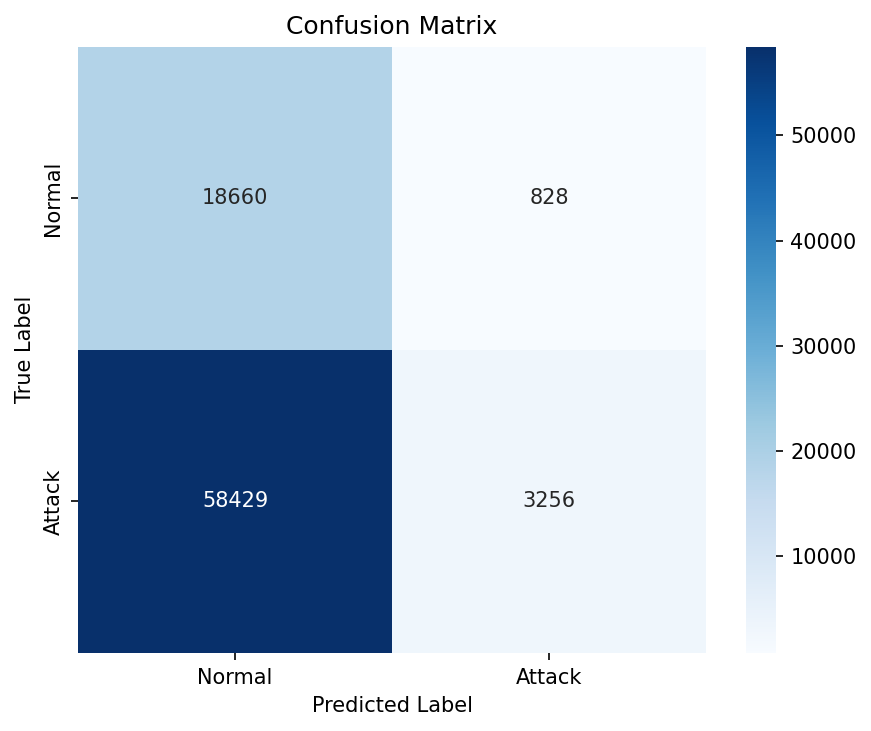
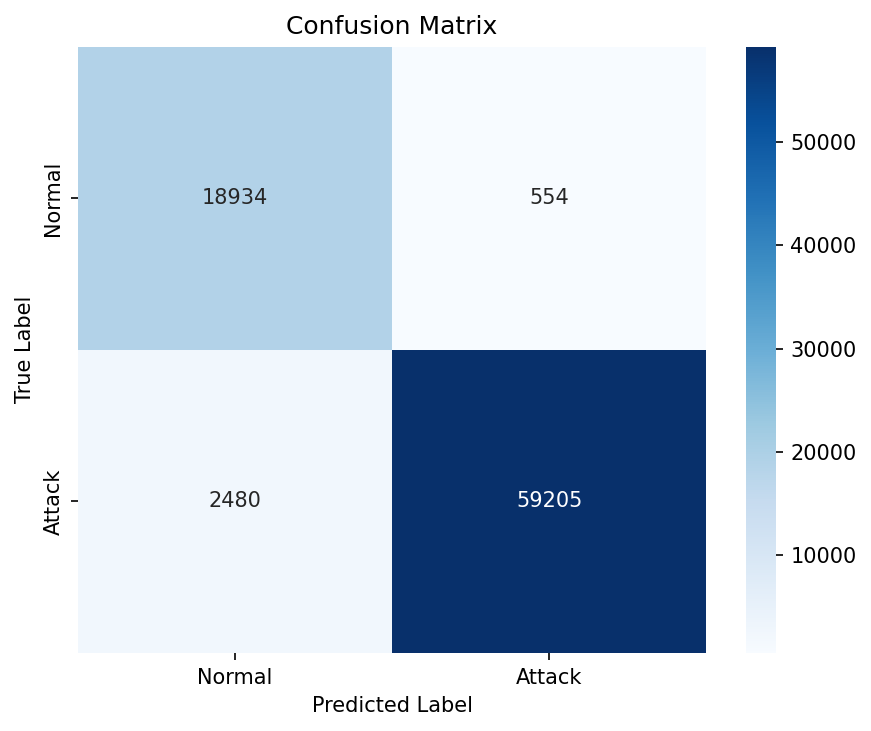
fix evaluate

diff --git a/main.py b/main.py
@@ -10,7 +10,8 @@ from src.evaluate import (
     plot_loss_curve,
     plot_confusion_matrix,
     plot_feature_importance,
-    print_metrics_table
+    print_metrics_table,
+    save_report_txt,
 )
 
 
@@ -24,21 +25,35 @@ def main():
     train_df, test_df = load_and_clean_data(TRAIN_PATH, TEST_PATH)
     X_train, X_test, y_train, y_test = encode_features(train_df, test_df)
     feature_names = list(X_train.columns)
-    X_train_scaled, X_test_scaled, scaler = scale_features(X_train, X_test)
-    X_train_balanced, y_train_balanced = apply_smote(X_train_scaled, y_train)
-    X_train_selected, selected_features, etc = select_features(
+    # Split original training set into train and val
+    X_train_raw, X_val_raw, y_train_raw, y_val_raw = train_test_split(
+        X_train, y_train,
+        test_size=0.2,
+        random_state=42,
+        stratify=y_train
+    )
+
+    # Scale features
+    X_train_scaled, X_val_scaled, scaler = scale_features(X_train_raw, X_val_raw)
+    X_test_scaled = scaler.transform(X_test)
+
+    # Apply SMOTE only to training split
+    X_train_balanced, y_train_balanced = apply_smote(X_train_scaled, y_train_raw)
+
+    # Feature selection (using balanced training data)
+    _, selected_features, etc = select_features(
         X_train_balanced, y_train_balanced, feature_names
     )
+
+    # Filter features for all sets
     test_indices = [feature_names.index(name) for name in selected_features]
-    X_test_selected = X_test_scaled[:, test_indices]
-    X_train_split, X_val_split, y_train_split, y_val_split = train_test_split(
-        X_train_selected, y_train_balanced,
-        test_size=0.33,
-        random_state=42
-    )
-    model = build_model(X_train_split.shape[1])
-    history = compile_and_train(model, X_train_split, y_train_split, X_val_split, y_val_split)
-    results, y_pred = evaluate(model, X_test_selected, y_test)
+    X_train_final = X_train_balanced[:, test_indices]
+    X_val_final = X_val_scaled[:, test_indices]
+    X_test_final = X_test_scaled[:, test_indices]
+
+    model = build_model(X_train_final.shape[1])
+    history = compile_and_train(model, X_train_final, y_train_balanced, X_val_final, y_val_raw)
+    results, y_pred = evaluate(model, X_test_final, y_test)
 
     print_metrics_table(results)
 
@@ -48,10 +63,7 @@ def main():
     importances_dict = dict(zip(feature_names, etc.feature_importances_))
     plot_feature_importance(selected_features, importances_dict)
 
-    print('Selected features:', selected_features)
-    print('Feature importance scores:')
-    for feat in selected_features:
-        print(f'  {feat}: {importances_dict[feat]:.6f}')
+    save_report_txt(results, selected_features, importances_dict)
 
     os.makedirs('models', exist_ok=True)
     model.save(os.path.join('models', 'nids_model.h5'))

diff --git a/src/evaluate.py b/src/evaluate.py
@@ -98,6 +98,37 @@ def plot_feature_importance(selected_features, importances_dict, save_path=None)
     print(f'Saved: {path}')
 
 
+def save_report_txt(results, selected_features, importances_dict):
+    """Save evaluation metrics, confusion matrix, and selected features to report.txt."""
+    cm = results['confusion_matrix']
+    lines = []
+    lines.append('=' * 50)
+    lines.append('  NIDS EVALUATION REPORT')
+    lines.append('=' * 50)
+    lines.append('')
+    lines.append('--- Metrics ---')
+    for key, val in results.items():
+        if key == 'confusion_matrix':
+            continue
+        key_str = key.replace('_', ' ').title()
+        lines.append(f'  {key_str:<20s}  {val:.4f}')
+    lines.append('')
+    lines.append('--- Confusion Matrix ---')
+    lines.append(f'  TN={cm[0,0]}  FP={cm[0,1]}')
+    lines.append(f'  FN={cm[1,0]}  TP={cm[1,1]}')
+    lines.append('')
+    lines.append('--- Selected Features ---')
+    for feat in selected_features:
+        lines.append(f'  {feat}: {importances_dict[feat]:.6f}')
+    lines.append('')
+    lines.append('=' * 50)
+
+    path = f'{REPORTS_DIR}/report.txt'
+    with open(path, 'w', encoding='utf-8') as f:
+        f.write('\n'.join(lines))
+    print(f'Saved: {path}')
+
+
 def print_metrics_table(results):
     """Print evaluation metrics in a formatted table."""
     print()

diff --git a/src/preprocessing.py b/src/preprocessing.py
@@ -1,6 +1,6 @@
 import numpy as np
 import pandas as pd
-from sklearn.preprocessing import MinMaxScaler
+from sklearn.preprocessing import StandardScaler
 from imblearn.over_sampling import SMOTE
 
 
@@ -33,12 +33,17 @@ def encode_features(train_df, test_df):
     X_train = train_encoded.drop(columns=['attack_cat', 'label'])
     X_test = test_encoded.drop(columns=['attack_cat', 'label'])
 
+    if 'id' in X_train.columns:
+        X_train = X_train.drop(columns=['id'])
+    if 'id' in X_test.columns:
+        X_test = X_test.drop(columns=['id'])
+
     return X_train, X_test, y_train, y_test
 
 
 def scale_features(X_train, X_test):
-    """Normalize numerical features to [0,1] range using MinMaxScaler."""
-    scaler = MinMaxScaler()
+    """Standardize numerical features using StandardScaler (zero mean, unit variance)."""
+    scaler = StandardScaler()
     X_train_scaled = scaler.fit_transform(X_train)
     X_test_scaled = scaler.transform(X_test)
     return X_train_scaled, X_test_scaled, scaler

diff --git a/src/model.py b/src/model.py
@@ -3,14 +3,15 @@ from tensorflow.keras.layers import Dense, Dropout
 from tensorflow.keras.regularizers import l2
 
 
-def build_model(input_dim):
-    """Build a Sequential DNN: 800-800-400 hidden layers, ReLU, Dropout 0.2, L2 reg, Softmax output."""
+def build_model(input_dim=8):
+    """Build a Sequential DNN: 400-800-800-400, ReLU, Dropout 0.2, L2 on first layer, Softmax output."""
     model = Sequential([
-        Dense(800, activation='relu', kernel_regularizer=l2(1e-4), input_shape=(input_dim,)),
+        Dense(400, activation='relu', kernel_regularizer=l2(1e-4), input_shape=(input_dim,)),
         Dropout(0.2),
-        Dense(800, activation='relu', kernel_regularizer=l2(1e-4)),
+        Dense(800, activation='relu'),
+        Dense(800, activation='relu'),
         Dropout(0.2),
-        Dense(400, activation='relu', kernel_regularizer=l2(1e-4)),
+        Dense(400, activation='relu'),
         Dense(2, activation='softmax')
     ])
     return model

diff --git a/src/feature_selection.py b/src/feature_selection.py
@@ -1,6 +1,6 @@
 from sklearn.ensemble import ExtraTreesClassifier
 
-REQUIRED_FEATURES = ['sttl', 'dttl', 'ct_state_ttl', 'dload', 'swin', 'ct_srv_dst', 'id']
+REQUIRED_FEATURES = ['sttl', 'dttl', 'ct_state_ttl', 'dload', 'swin', 'ct_srv_dst']
 
 
 def select_features(X_train, y_train, feature_names):
